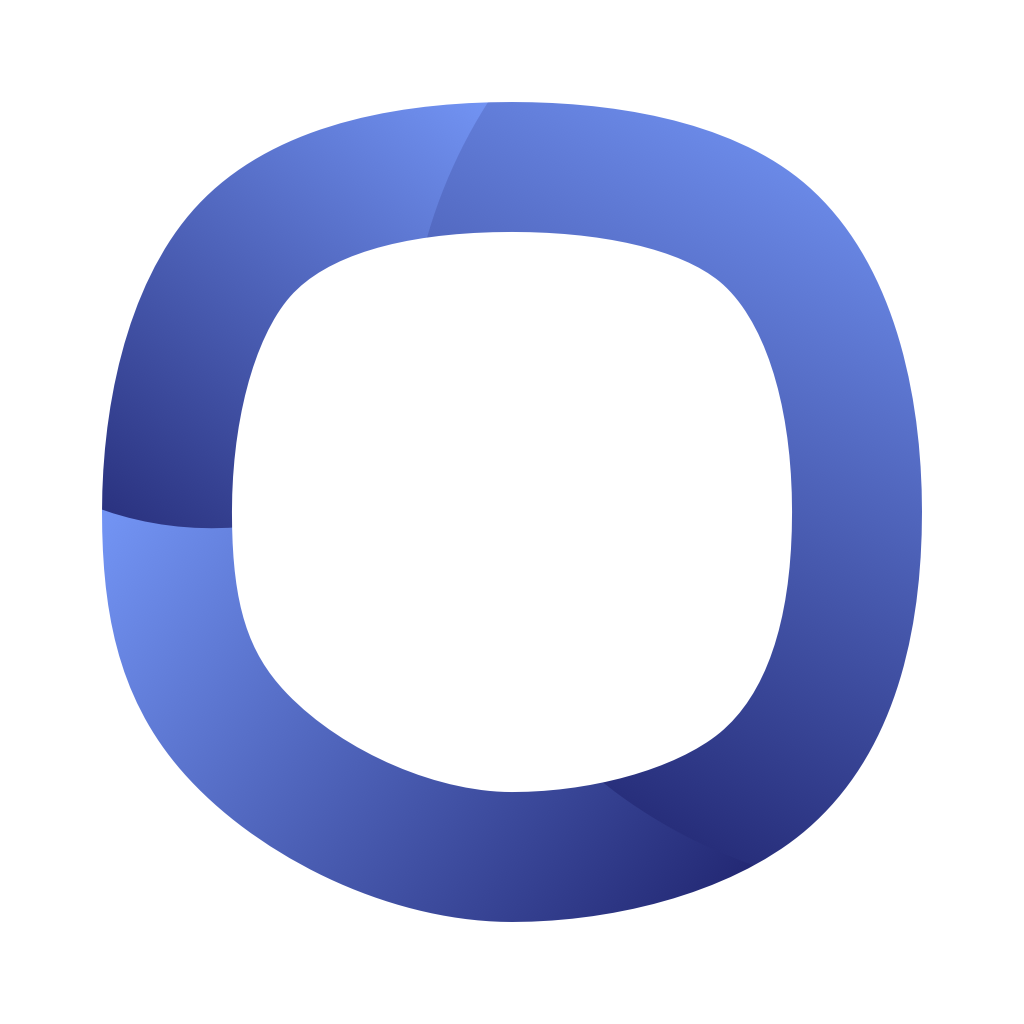
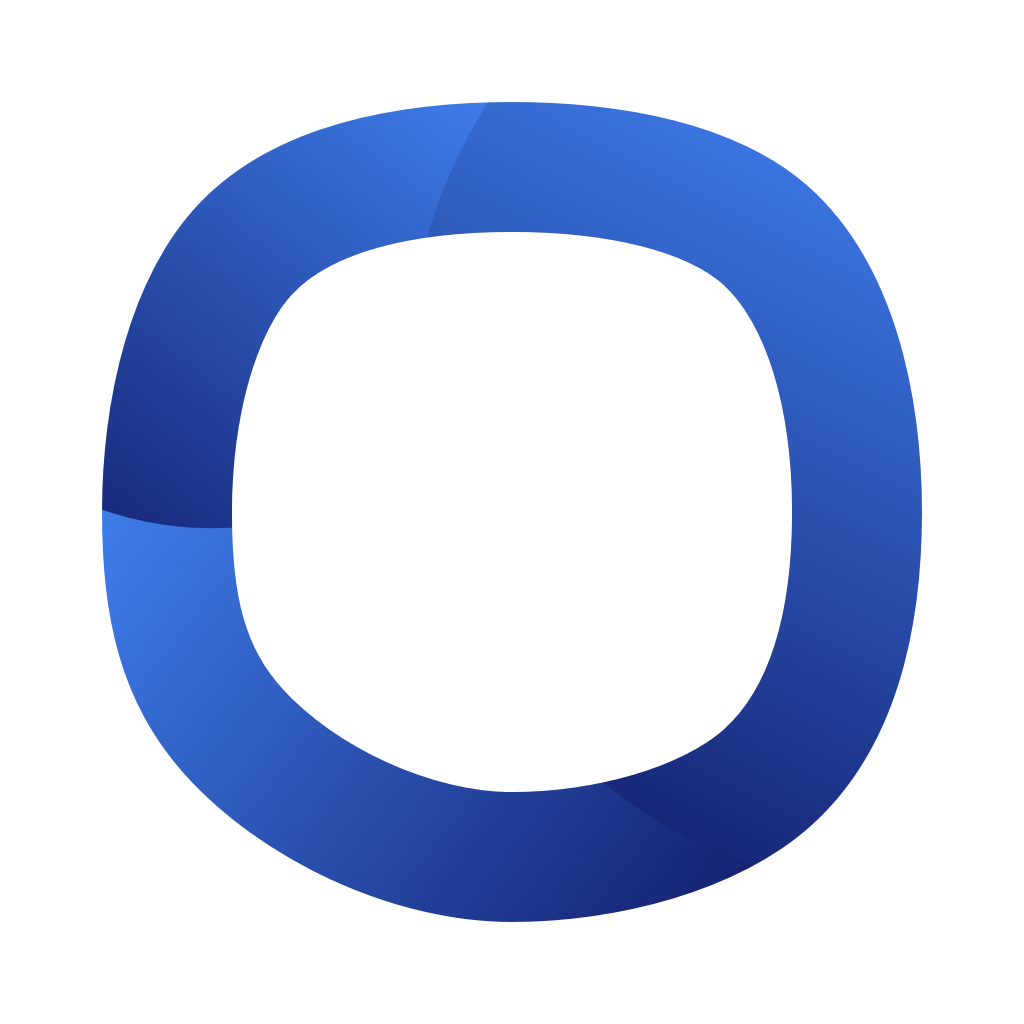
Fixed theme colors & meditation timer bug

Changed region(s): [[0.0938, 0.0938, 0.9062, 0.7188], [0.0938, 0.5, 0.5625, 0.9062]]

diff --git a/utilities/useMeditationPlaylist/useMeditationPlaylistPlayer.ts b/utilities/useMeditationPlaylist/useMeditationPlaylistPlayer.ts
@@ -24,11 +24,14 @@ export const useMeditationPlaylistPlayer = ({
     const playbackInstance: any = useRef(null);
 
     useEffect(() => {
+        loadAudioPlayer();
+    }, []);
+
+    useEffect(() => {
         if(playerState.isFinished){
             unloadPlaybackInstance();
             handleOnComplete();
         } else {
-            loadAudioPlayer();
             loadNewPlaybackInstance(playerState.shouldPlay, playerState.currentTrack);
         }
         return () => unloadPlaybackInstance();
@@ -143,6 +146,9 @@ export const useMeditationPlaylistPlayer = ({
                 true, // TODO: make this false & handle buffering events
             );
             playbackInstance.current = sound;
+            dispatch({
+                type: "loadedNewTrack",
+            });
         } catch (error) {
             console.error(`Fatal error: `, error);
             loadNewPlaybackInstance(playing, currentTrack);
@@ -150,39 +156,33 @@ export const useMeditationPlaylistPlayer = ({
     }
 
     const onPlaybackStatusUpdate = status => {
-        if(status.isBuffering){
-            dispatch({
-                type: "newTrackBuffering",
-            });
-        } else {
-            if (status.isLoaded) {
-                if (status.didJustFinish) {
-                    dispatch({
-                        type: "didJustFinish",
-                        payload: {
-                            completedDuration: status.durationMillis,
-                            playbackInstancePosition: status.positionMillis,
-                        }
-                    });
-                } else {
-                    dispatch({
-                        type: "statusUpdate",
-                        payload: {
-                            isLoading: status.isLoading,
-                            playbackInstancePosition: status.positionMillis,
-                            playbackInstanceDuration: status.durationMillis,
-                            isPlaying: status.isPlaying,
-                            isBuffering: status.isBuffering,
-                            muted: status.isMuted,
-                            volume: status.volume,
-                            isLooping: status.isLooping,
-                        },
-                    });
-                }
+        if (status.isLoaded) {
+            if (status.didJustFinish) {
+                dispatch({
+                    type: "didJustFinish",
+                    payload: {
+                        completedDuration: status.durationMillis,
+                        playbackInstancePosition: status.positionMillis,
+                    }
+                });
             } else {
-                if (status.error) {
-                    console.log(`FATAL PLAYER ERROR: ${status.error}`);
-                }
+                dispatch({
+                    type: "statusUpdate",
+                    payload: {
+                        isLoading: status.isLoading,
+                        playbackInstancePosition: status.positionMillis,
+                        playbackInstanceDuration: status.durationMillis,
+                        isPlaying: status.isPlaying,
+                        isBuffering: status.isBuffering,
+                        muted: status.isMuted,
+                        volume: status.volume,
+                        isLooping: status.isLooping,
+                    },
+                });
+            }
+        } else {
+            if (status.error) {
+                console.log(`FATAL PLAYER ERROR: ${status.error}`);
             }
         }
     };

diff --git a/screens/MeditationSuccessScreen/MeditationSuccessWithoutStats.tsx b/screens/MeditationSuccessScreen/MeditationSuccessWithoutStats.tsx
@@ -1,4 +1,4 @@
-import React, { useEffect, FC } from "react";
+import React, { useEffect, FC, useState } from "react";
 import { View, StyleSheet, StatusBar } from "react-native";
 import { FooterButton } from "../../components/FooterButton/FooterButton";
 import { ScreenContainerView } from "../../components/ScreenContainerView";
@@ -11,6 +11,7 @@ import { withMeditationState, InjectedMeditationStateProps } from "../../utiliti
 import { InjectedStatsPresenterProps } from "../../utilities/useStatsPresenter";
 import { MeditationHighlightsDivider } from "../../components";
 import randomTextGetter from "../../utilities/randomTextGetter";
+import { FadeInView } from "../../components/FadeInView";
 
 
 export interface Props {
@@ -25,6 +26,15 @@ export const MeditationSuccessWithoutStats: FC<Props> = ({
     navigation,
     route,
 }) => {
+    const [encouragingText, setEncouragingText] = useState("");
+
+    useEffect(() => {
+        setEncouragingText(getEncouragingText());
+        return () => {
+            setEncouragingText("");
+        }
+    });
+
     const setStatusBar = () => {
         StatusBar.setBarStyle('light-content');
     }
@@ -44,9 +54,9 @@ export const MeditationSuccessWithoutStats: FC<Props> = ({
     return (
         <ScreenContainerView style={styles.screenContainer}>
             <MeditationHighlightsDivider isPrimary={true} />
-            <View style={styles.encouragingTextContainer}>
-                <ThemeAwareText style={styles.encouragingText}>{getEncouragingText()}</ThemeAwareText>
-            </View>
+            <FadeInView style={styles.encouragingTextContainer} duration={1500}>
+                <ThemeAwareText style={styles.encouragingText}>{encouragingText}</ThemeAwareText>
+            </FadeInView>
             <FooterButton
                 content="Finish"
                 onPress={() => (navigation as any).popToTop()}

diff --git a/utilities/useMeditationPlaylist/playerReducer.ts b/utilities/useMeditationPlaylist/playerReducer.ts
@@ -22,7 +22,7 @@ export interface PlayerState {
 
 export const playerReducer = (state: PlayerState, action) => {
     switch (action.type) {
-        case "newTrackBuffering":
+        case "loadedNewTrack":
             return {
                 ...state,
                 trackDidEnd: false,
@@ -56,6 +56,7 @@ export const playerReducer = (state: PlayerState, action) => {
             const sumOfPreviousPlaylistDurations = state.sumOfPreviousPlaylistDurations + action.payload.completedDuration;
             const isFinished = state.currentTrack === state.playlist.getPlaylistLength() - 1;
             const nextTrack = isFinished ? state.currentTrack : state.currentTrack + 1;
+            const shouldLoop = state.loopCount + 1 <= targetLoopCount;
 
             return {
                 ...state,
@@ -63,10 +64,10 @@ export const playerReducer = (state: PlayerState, action) => {
                 shouldPlay: !isFinished,
                 sumOfPreviousPlaylistDurations,
                 elapsedPlaytime: sumOfPreviousPlaylistDurations,
-                currentTrack: state.isLooping ? state.currentTrack : nextTrack,
+                currentTrack: shouldLoop ? state.currentTrack : nextTrack,
                 isFinished: isFinished,
                 loopCount: loopCount,
-                isLooping: state.loopCount + 1 < targetLoopCount,
+                isLooping: shouldLoop,
             };
         case "updateCurrentPlayState":
             return {

diff --git a/utilities/Styles/theme.ts b/utilities/Styles/theme.ts
@@ -10,16 +10,24 @@ export const useTheme = () => {
     });
 
     useEffect(() => {
-        (async () => { 
-            const themeType: themeType = await themeRespository.getTheme();
-            setThemeState({
-                ...themeState,
-                theme: {
-                    type: themeType,
-                },
-                hasThemeMounted: true,
-            });
-        })();
+        const loadTheme = async () => {
+            try {
+                const themeType: themeType = await themeRespository.getTheme();
+                setThemeState({
+                    ...themeState,
+                    theme: {
+                        type: themeType,
+                    },
+                    hasThemeMounted: true,
+                });
+            } catch (error) {
+                setThemeState({
+                    ...themeState,
+                    hasThemeMounted: true,
+                });
+            }
+        }
+        loadTheme();
     }, []);
 
     useEffect(() => {

diff --git a/screens/HomeScreen/HomeScreen.tsx b/screens/HomeScreen/HomeScreen.tsx
@@ -1,8 +1,6 @@
-import React, { useEffect, useState, useCallback, FC } from 'react';
-import { View, Text, StyleSheet, StatusBar, Switch } from 'react-native';
+import React, { useCallback, FC } from 'react';
+import { View, Text, StyleSheet, StatusBar } from 'react-native';
 import { MeditationHighlightsDivider } from '../../components';
-import { asyncStorageMeditationSessionRepository, MeditationRecords } from '../../utilities/MeditationSessionRepository';
-import { meditationAnalysisService } from '../../utilities/MeditationAnalysisService';
 import { FooterButton } from '../../components/FooterButton/FooterButton';
 import { QuotationDisplay } from '../../components/QuotationDisplay';
 import { numberFormatter } from '../../utilities';
@@ -75,7 +73,6 @@ export const HomeScreen: FC<Props> = ({
 
 const styles = StyleSheet.create({
   meditationHighlightsContainer: {
-    // backgroundColor: "#4464FF",
     flex: 1,
     paddingTop: 50,
     paddingHorizontal: 25,

diff --git a/screens/SettingsScreen/SettingsScreen.tsx b/screens/SettingsScreen/SettingsScreen.tsx
@@ -11,6 +11,7 @@ import { withStatsPresenter, InjectedStatsPresenterProps } from "../../utilities
 import { compose } from "recompose";
 import { MainNavigatorParamList } from "../../components/MainNavigator";
 import { StackNavigationProp } from "@react-navigation/stack";
+import { colorPalette } from "../../utilities/Styles";
 
 export interface Props {
     theme: InjectedThemeProps;
@@ -40,7 +41,7 @@ export const SettingsScreen: FC<Props> = ({
                     onValueChange={statsPresenter.toggleStats}
                     trackColor={{ true: theme.themeColors.primaryBackgroundColor.backgroundColor, 
                         false: null }}
-                    thumbColor={Platform.OS === 'ios' ? null: theme.themeColors.defaultBackgroundColor.backgroundColor}
+                    thumbColor={Platform.OS === 'ios' ? null: colorPalette.white}
                     />
                 }
             />

diff --git a/utilities/Styles/ThemeRepository/AsyncStorageThemeRepository.ts b/utilities/Styles/ThemeRepository/AsyncStorageThemeRepository.ts
@@ -2,6 +2,8 @@ import { AsyncStorage } from "react-native";
 
 export type themeType = "light" | "dark";
 
+const DEFAULT_THEME = "light";
+
 export interface ITheme {
     type: themeType;
 }
@@ -26,6 +28,12 @@ export class AsyncStorageThemeRepository implements IThemeRepository {
                 } catch (err){
                     reject(err);
                 }
+            } else {
+                this.setTheme(DEFAULT_THEME).then(() => {
+                    resolve(DEFAULT_THEME);
+                }).catch((error) => {
+                    reject(error);
+                });
             }
         }));
     }

diff --git a/screens/MeditationScreen/MeditationScreen.tsx b/screens/MeditationScreen/MeditationScreen.tsx
@@ -89,7 +89,7 @@ export const MeditationScreen = ({
             <View style={styles.footerSpacer}></View>
             <FooterButton
                 onPress={handleOnPressPlayPause}
-                onLongPress={completeMeditation}
+                // onLongPress={completeMeditation}
                 content={isPlaying ? "Pause" : "Play"}
             />
         </ScreenContainerView>

diff --git a/utilities/Styles/themeColors.ts b/utilities/Styles/themeColors.ts
@@ -1,8 +1,8 @@
 import { StyleSheet } from "react-native";
 
 export const colorPalette = {
-    primaryColor: "#4464FF",
-    darkPrimaryColor: "#3282b8",
+    primaryColor: "#4285F5",
+    darkPrimaryColor: "#4285F5",
     white: "#FFFFFF",
     black: "#000000",
     grey: "#A6A3A3",
